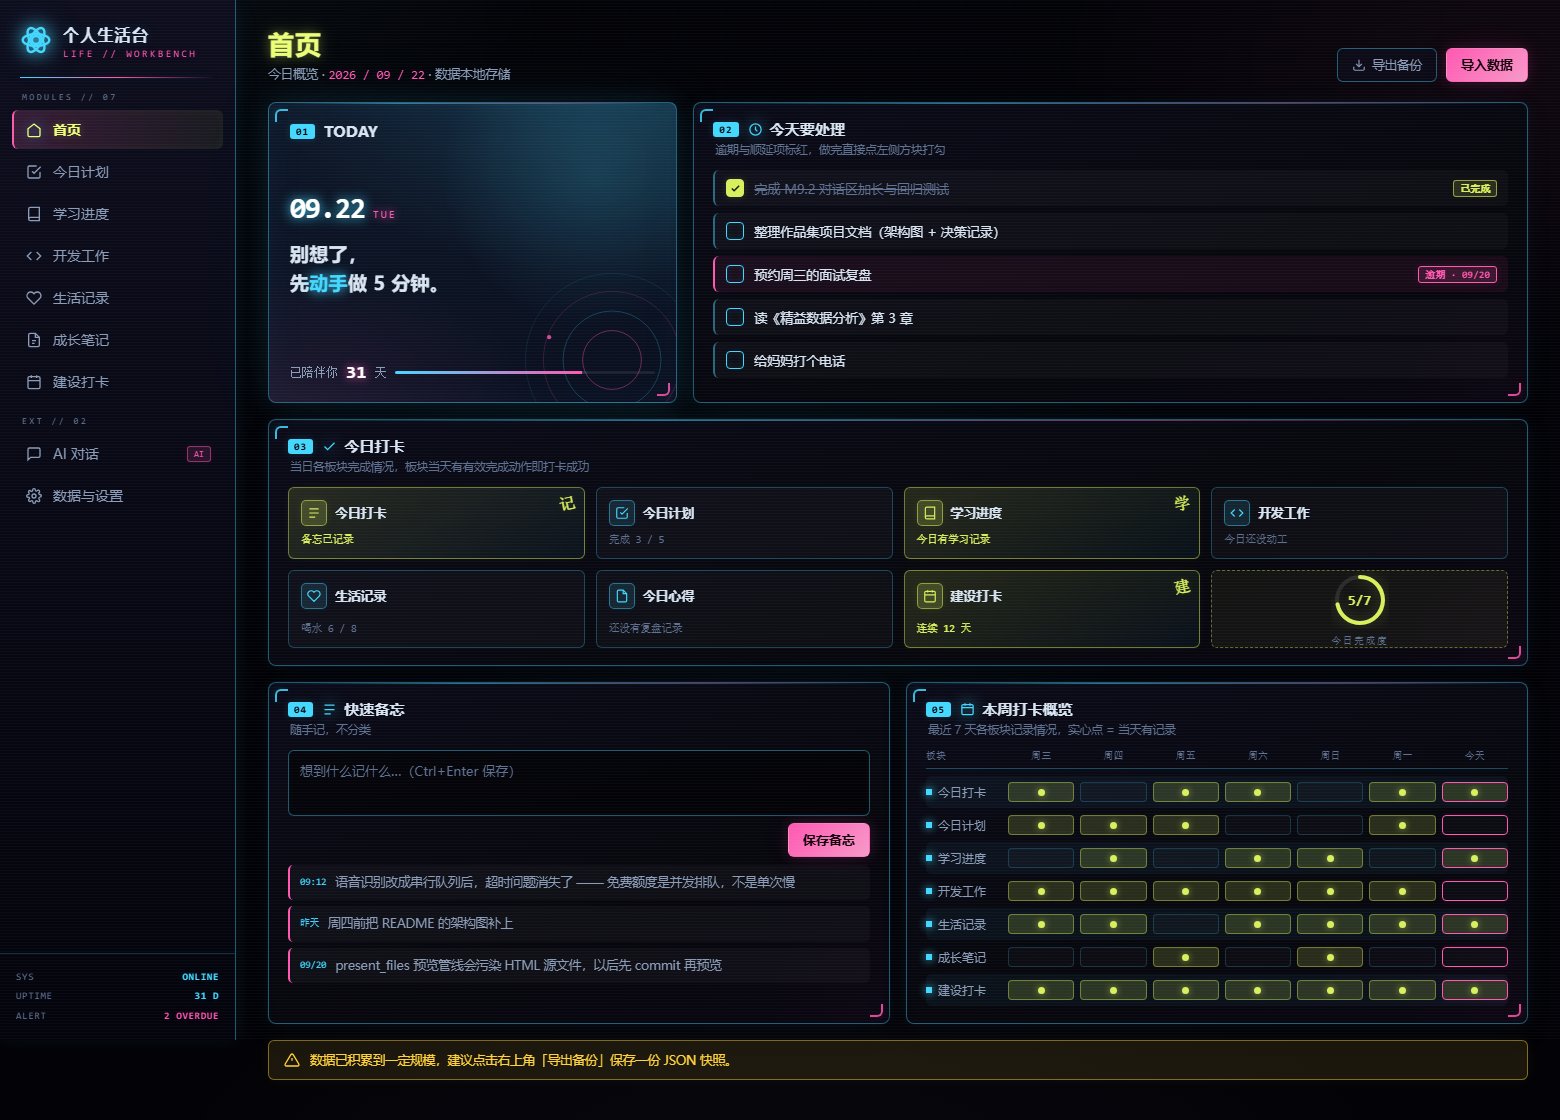
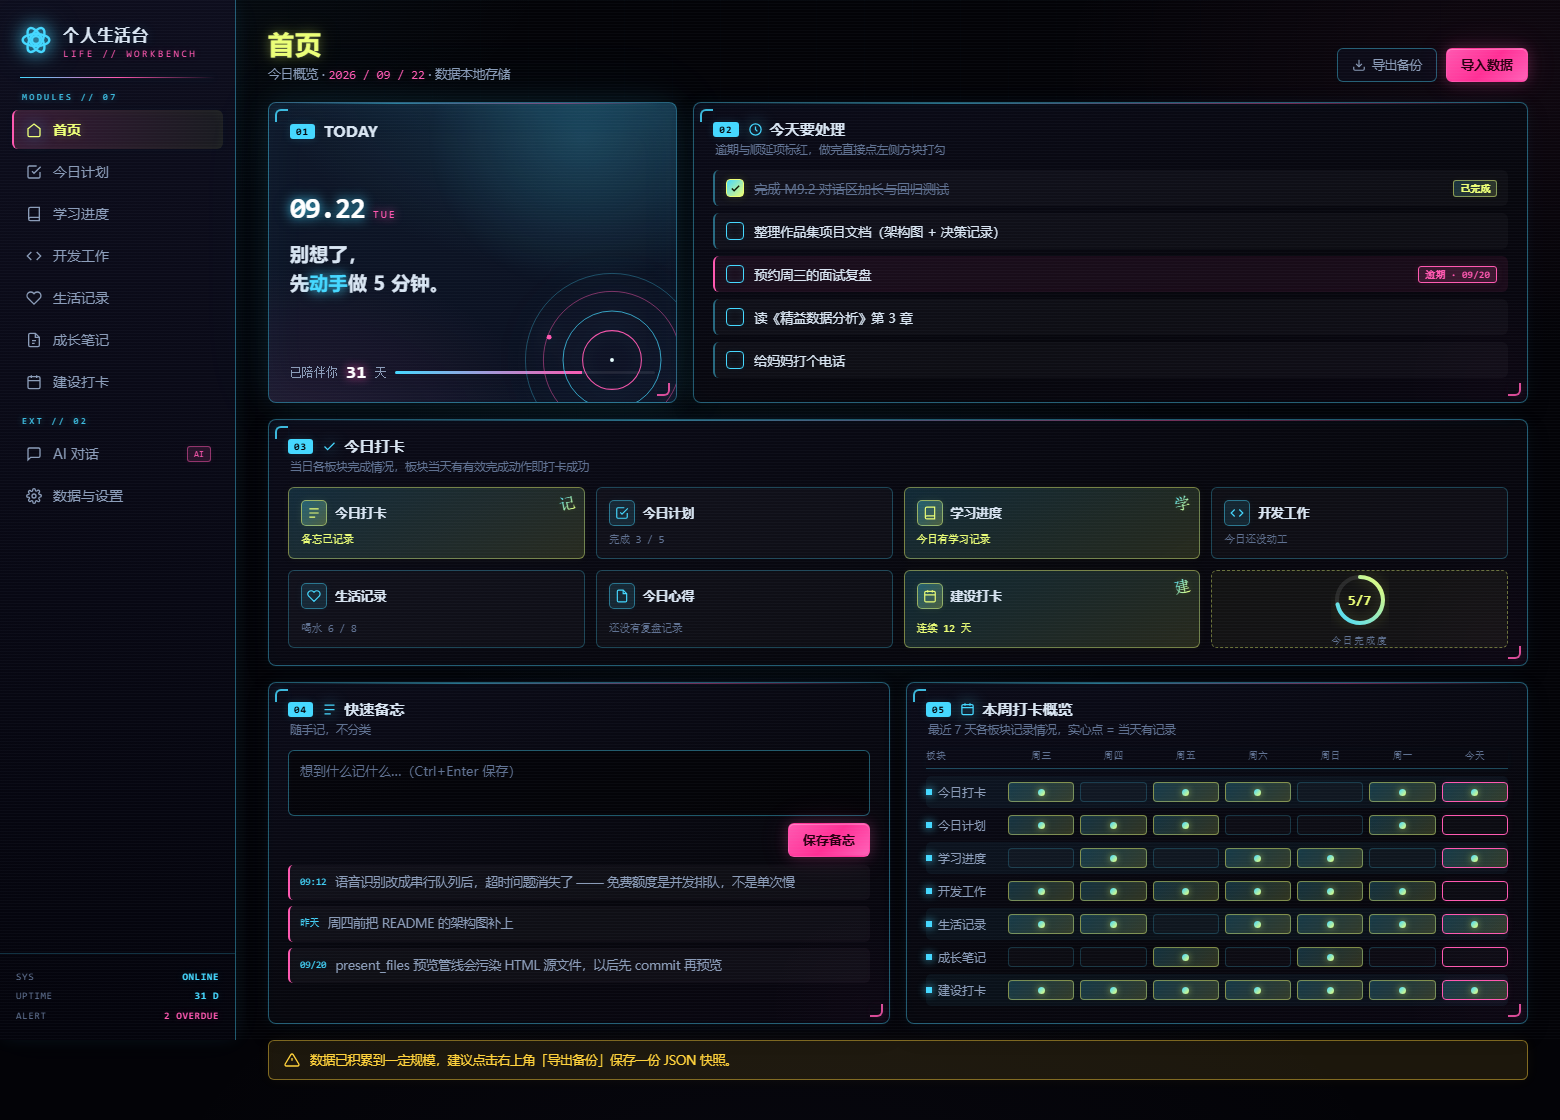
feat: B7 皮肤细节四条——按钮光感粉 / 星环凸显 / 完成态主色转荧光渐变 / 侧栏标题荧光
- 主按钮右端发白 -> 光感粉三段渐变 #ff58b0→#ff2f95→#ff62b8，加顶高光与底暗边
- 日期卡星环：描边 alpha 提亮（.16/.28/.36/.6 -> .34/.52/.74/.95）+ 双色 drop-shadow + 透明度 1 + 中心高光点，青色光团上移让位
- 打卡完成态改为「主色蓝绿 -> 荧光」渐变：对勾/卡底/图标/状态文字/印章/周记录点/完成度环(SVG linearGradient)/徽章，未打卡仍为纯主色描边以作区分
- 侧栏分组小标题改主色荧光（青 + 双层辉光）
- 实测：chroma 53.8->50.9、vivid 37.9->35.4、p95 59->61；版式体检无损
- 流程：调参脚本改空白容错匹配 + 先 git checkout 再打改动（管线异步污染会让多行 Edit 匹配失败）

diff --git a/设计稿/皮肤方案/B-赛博霓虹.html b/设计稿/皮肤方案/B-赛博霓虹.html
@@ -54,7 +54,9 @@ body::after{content:'';position:fixed;inset:0;pointer-events:none;z-index:0;opac
 .logo .s{font-size:10px;color:var(--magenta);margin-top:3px;font-family:var(--mono);
   letter-spacing:2.4px;text-shadow:0 0 9px rgba(255,88,176,0.207)}
 nav{flex:1;padding:14px 12px;overflow-y:auto}
-.nav-label{font-family:var(--mono);font-size:9px;letter-spacing:2.4px;color:var(--t3);padding:0 10px 8px}
+.nav-label{font-family:var(--mono);font-size:9px;letter-spacing:2.4px;padding:0 10px 8px;
+  color:var(--cyan);opacity:.92;
+  text-shadow:0 0 7px rgba(69,216,255,.55), 0 0 14px rgba(69,216,255,.24)}
 .nav-item{display:flex;align-items:center;gap:11px;padding:10px 12px;border-radius:var(--r-sm);
   cursor:pointer;color:var(--t2);margin-bottom:3px;font-size:14px;
   border-left:2px solid transparent;transition:.18s}
@@ -91,9 +93,9 @@ main{flex:1;min-width:0;padding:26px 30px 40px;max-width:1320px;margin:0 auto}
 .btn:hover{color:var(--cyan);border-color:var(--cyan);
   box-shadow:0 0 14px rgba(69,216,255,0.115), inset 0 0 12px rgba(69,216,255,0.032)}
 .btn svg{width:14px;height:14px}
-.btn.primary{background:linear-gradient(135deg,var(--magenta),#f79ac9);border-color:transparent;
-  color:#12000a;font-weight:800;letter-spacing:.5px;
-  box-shadow:0 0 14px rgba(255,88,176,0.15), 0 0 32px rgba(255,88,176,0.065)}
+.btn.primary{background:linear-gradient(135deg,#ff58b0 0%,#ff2f95 52%,#ff62b8 100%);border-color:transparent;
+  color:#2a0012;font-weight:800;letter-spacing:.5px;
+  box-shadow:0 0 14px rgba(255,88,176,.24), 0 0 34px rgba(255,88,176,.11), inset 0 1px 0 rgba(255,255,255,.26), inset 0 -1px 0 rgba(255,47,149,.35)}
 .btn.primary:hover{box-shadow:0 0 20px rgba(255,88,176,0.219), 0 0 48px rgba(255,88,176,0.092)}
 
 /* ---------- 栅格 ---------- */
@@ -153,7 +155,7 @@ main{flex:1;min-width:0;padding:26px 30px 40px;max-width:1320px;margin:0 auto}
     0 0 84px rgba(69,216,255,.05),
     inset 0 0 46px rgba(69,216,255,.045)}
 .date-card::after{display:none}
-.date-card .glow{position:absolute;right:-90px;top:-100px;width:340px;height:340px;border-radius:50%;
+.date-card .glow{position:absolute;right:-70px;top:-130px;width:330px;height:330px;border-radius:50%;
   background:radial-gradient(circle, rgba(69,216,255,.15), transparent 66%);z-index:1;pointer-events:none}
 .day-head{display:flex;align-items:baseline;gap:8px;position:relative}
 .day-head .d{font-family:var(--mono);font-size:29px;font-weight:800;letter-spacing:-1px;color:#fff;
@@ -170,8 +172,8 @@ main{flex:1;min-width:0;padding:26px 30px 40px;max-width:1320px;margin:0 auto}
 .day-foot .bar i{display:block;height:100%;width:72%;
   background:linear-gradient(90deg,var(--cyan),var(--magenta));
   box-shadow:0 0 9px rgba(69,216,255,1), 0 0 18px rgba(255,88,176,0.138)}
-.day-ring{position:absolute;right:-34px;bottom:-56px;width:196px;height:196px;opacity:.82;pointer-events:none;z-index:1;
-  filter:drop-shadow(0 0 8px rgba(69,216,255,0.144))}
+.day-ring{position:absolute;right:-34px;bottom:-56px;width:196px;height:196px;opacity:1;pointer-events:none;z-index:1;
+  filter:drop-shadow(0 0 9px rgba(69,216,255,.62)) drop-shadow(0 0 20px rgba(255,88,176,.28))}
 
 /* ---------- 今天要处理 ---------- */
 .focus-item{display:flex;align-items:center;gap:10px;padding:9px 11px;border-radius:var(--r-sm);
@@ -183,7 +185,8 @@ main{flex:1;min-width:0;padding:26px 30px 40px;max-width:1320px;margin:0 auto}
 .mini-check{width:18px;height:18px;border-radius:4px;border:1.5px solid var(--cyan);background:transparent;flex:none;
   display:grid;place-items:center;cursor:pointer;color:transparent;
   box-shadow:inset 0 0 8px rgba(69,216,255,0.092), 0 0 8px rgba(69,216,255,0.042)}
-.mini-check.checked{background:var(--gold);border-color:var(--gold);color:#111600;
+.mini-check.checked{background:linear-gradient(135deg,var(--cyan),var(--gold-hi));
+  border-color:var(--gold-hi);color:#0d1400;
   box-shadow:0 0 8.0px rgba(217,240,94, 0.124), 0 0 16.0px rgba(217,240,94, 0.049)}
 .mini-check svg{width:11px;height:11px}
 .fi-text{flex:1;font-size:13px;min-width:0;overflow:hidden;text-overflow:ellipsis;white-space:nowrap}
@@ -191,7 +194,8 @@ main{flex:1;min-width:0;padding:26px 30px 40px;max-width:1320px;margin:0 auto}
 .badge{font-family:var(--mono);font-size:9.5px;padding:2px 6px;flex:none;letter-spacing:.4px;font-weight:700;border-radius:3px}
 .badge.red{background:rgba(255,88,176,.15);color:var(--magenta);border:1px solid var(--magenta);
   box-shadow:0 0 9px rgba(255,88,176,0.104)}
-.badge.gold{background:rgba(217,240,94,.14);color:var(--gold);border:1px solid rgba(217,240,94,.6);
+.badge.gold{background:linear-gradient(135deg,rgba(69,216,255,.18),rgba(236,255,119,.16));
+  color:var(--gold-hi);border:1px solid rgba(236,255,119,.5);
   box-shadow:0 0 7.2px rgba(217,240,94, 0.049)}
 
 /* ---------- 今日打卡 ---------- */
@@ -202,20 +206,23 @@ main{flex:1;min-width:0;padding:26px 30px 40px;max-width:1320px;margin:0 auto}
   box-shadow:inset 0 0 10px rgba(69,216,255,0.011)}
 .ck-card:hover{border-color:var(--cyan);
   box-shadow:0 0 12px rgba(69,216,255,0.081), inset 0 0 14px rgba(69,216,255,0.028)}
-.ck-card.done{border-color:rgba(217,240,94,.46);
-  background:linear-gradient(150deg,rgba(217,240,94,.14),rgba(69,216,255,.05));
+.ck-card.done{border-color:rgba(236,255,119,.42);
+  background:linear-gradient(150deg,rgba(69,216,255,.16),rgba(236,255,119,.14));
   box-shadow:0 0 11.2px rgba(217,240,94, 0.039), inset 0 0 12.8px rgba(217,240,94, 0.014)}
 .ck-top{display:flex;align-items:center;gap:8px}
 .ck-ic{width:26px;height:26px;border-radius:5px;display:grid;place-items:center;flex:none;
   background:rgba(69,216,255,.12);border:1px solid rgba(69,216,255,.45);color:var(--cyan);
   box-shadow:0 0 9px rgba(69,216,255,0.05)}
 .ck-ic svg{width:14px;height:14px}
-.ck-card.done .ck-ic{background:rgba(217,240,94,.18);border-color:rgba(217,240,94,.52);color:var(--gold);
+.ck-card.done .ck-ic{background:linear-gradient(135deg,rgba(69,216,255,.30),rgba(236,255,119,.24));
+  border-color:rgba(236,255,119,.52);color:var(--gold-hi);
   box-shadow:0 0 8.0px rgba(217,240,94, 0.076), inset 0 0 7.2px rgba(217,240,94, 0.028)}
 .ck-name{font-size:12.5px;font-weight:700;letter-spacing:.3px}
 .ck-st{font-size:10.5px;color:var(--t3);font-family:var(--mono);margin-top:auto}
-.ck-card.done .ck-st{color:var(--gold);text-shadow:0 0 6.4px rgba(217,240,94, 0.069)}
-.ck-stamp{position:absolute;right:8px;top:6px;font-size:16px;font-weight:800;color:var(--gold);
+.ck-card.done .ck-st{color:var(--gold-hi);text-shadow:0 0 6.4px rgba(217,240,94, 0.069)}
+.ck-stamp{position:absolute;right:8px;top:6px;font-size:16px;font-weight:800;
+  background:linear-gradient(135deg,var(--cyan) 10%,var(--gold-hi) 90%);
+  -webkit-background-clip:text;background-clip:text;color:transparent;
   transform:rotate(-12deg);font-family:var(--mono);
   text-shadow:0 0 7.2px rgba(217,240,94, 0.158), 0 0 13.6px rgba(217,240,94, 0.055)}
 .ck-card.locked{opacity:.45}
@@ -224,12 +231,12 @@ main{flex:1;min-width:0;padding:26px 30px 40px;max-width:1320px;margin:0 auto}
   border:1px solid rgba(255,88,176,.5)}
 .ck-sum{display:flex;flex-direction:column;align-items:center;justify-content:center;gap:6px;
   border-radius:var(--r-sm);position:relative;
-  border:1px dashed rgba(217,240,94,.40);background:rgba(217,240,94,.06);
+  border:1px dashed rgba(236,255,119,.40);background:rgba(236,255,119,.05);
   box-shadow:inset 0 0 9.6px rgba(217,240,94, 0.011)}
 .ck-sum .ring{width:58px;height:58px;position:relative}
 .ck-sum .ring svg{width:58px;height:58px;transform:rotate(-90deg)}
 .ck-sum .ring .val{position:absolute;inset:0;display:grid;place-items:center;
-  font-family:var(--mono);font-size:14px;font-weight:800;color:var(--gold);
+  font-family:var(--mono);font-size:14px;font-weight:800;color:var(--gold-hi);
   text-shadow:0 0 7.2px rgba(217,240,94, 0.124)}
 .ck-sum .lb{font-family:var(--mono);font-size:10px;color:var(--t3);letter-spacing:1.4px}
 
@@ -262,9 +269,11 @@ main{flex:1;min-width:0;padding:26px 30px 40px;max-width:1320px;margin:0 auto}
 .wk-name i{width:6px;height:6px;background:var(--cyan);flex:none;box-shadow:0 0 8px var(--cyan)}
 .wk-dot{width:100%;height:20px;border-radius:4px;display:grid;place-items:center;
   border:1px solid rgba(69,216,255,.2);background:rgba(255,255,255,.025)}
-.wk-dot.on{background:rgba(217,240,94,.16);border-color:rgba(217,240,94,.40);
+.wk-dot.on{background:linear-gradient(135deg,rgba(69,216,255,.20),rgba(236,255,119,.18));
+  border-color:rgba(236,255,119,.44);
   box-shadow:inset 0 0 7.2px rgba(217,240,94, 0.028), 0 0 6.4px rgba(217,240,94, 0.022)}
-.wk-dot.on::after{content:'';width:7px;height:7px;border-radius:50%;background:var(--gold);
+.wk-dot.on::after{content:'';width:7px;height:7px;border-radius:50%;
+  background:linear-gradient(135deg,var(--cyan),var(--gold-hi));
   box-shadow:0 0 7.2px rgba(217,240,94, 0.600)}
 .wk-dot.today{border-color:var(--magenta);box-shadow:0 0 9px rgba(255,88,176,0.069)}
 
@@ -327,11 +336,12 @@ main{flex:1;min-width:0;padding:26px 30px 40px;max-width:1320px;margin:0 auto}
         </div>
         <div class="day-foot"><span>已陪伴你</span><b>31</b><span>天</span><span class="bar"><i></i></span></div>
         <svg class="day-ring" viewBox="0 0 240 240" aria-hidden="true">
-          <circle cx="120" cy="120" r="106" fill="none" stroke="rgba(69,216,255,.16)" stroke-width="1"/>
-          <circle cx="120" cy="120" r="84" fill="none" stroke="rgba(255,88,176,.28)" stroke-width="1"/>
-          <circle cx="120" cy="120" r="60" fill="none" stroke="rgba(69,216,255,.36)" stroke-width="1"/>
-          <circle cx="120" cy="120" r="36" fill="none" stroke="rgba(255,88,176,.6)" stroke-width="1"/>
-          <circle cx="219" cy="156" r="4" fill="#45d8ff"/><circle cx="43" cy="92" r="2.6" fill="#ff58b0"/>
+          <circle cx="120" cy="120" r="106" fill="none" stroke="rgba(69,216,255,.34)" stroke-width="1.1"/>
+          <circle cx="120" cy="120" r="84" fill="none" stroke="rgba(255,88,176,.52)" stroke-width="1.1"/>
+          <circle cx="120" cy="120" r="60" fill="none" stroke="rgba(69,216,255,.74)" stroke-width="1.2"/>
+          <circle cx="120" cy="120" r="36" fill="none" stroke="rgba(255,88,176,.95)" stroke-width="1.3"/>
+          <circle cx="219" cy="156" r="4.6" fill="#45d8ff"/><circle cx="43" cy="92" r="3" fill="#ff58b0"/>
+          <circle cx="120" cy="120" r="2.4" fill="#eaffff"/>
         </svg>
       </div>
 
@@ -367,7 +377,8 @@ main{flex:1;min-width:0;padding:26px 30px 40px;max-width:1320px;margin:0 auto}
           <div class="ck-card"><div class="ck-top"><div class="ck-ic"><svg viewBox="0 0 24 24" fill="none" stroke="currentColor" stroke-width="2"><path d="M14 2H6a2 2 0 0 0-2 2v16a2 2 0 0 0 2 2h12a2 2 0 0 0 2-2V8z"/><path d="M14 2v6h6"/></svg></div><div class="ck-name">今日心得</div></div><div class="ck-st">还没有复盘记录</div></div>
           <div class="ck-card done"><div class="ck-top"><div class="ck-ic"><svg viewBox="0 0 24 24" fill="none" stroke="currentColor" stroke-width="2"><rect x="3" y="4" width="18" height="18" rx="2"/><path d="M16 2v4M8 2v4M3 10h18"/></svg></div><div class="ck-name">建设打卡</div></div><div class="ck-st">连续 12 天</div><div class="ck-stamp">建</div></div>
           <div class="ck-sum">
-            <div class="ring"><svg viewBox="0 0 58 58"><circle cx="29" cy="29" r="23" fill="none" stroke="rgba(255,255,255,.1)" stroke-width="4"/><circle cx="29" cy="29" r="23" fill="none" stroke="#d9f05e" stroke-width="4" stroke-linecap="round" stroke-dasharray="144.5" stroke-dashoffset="41.3" style="filter:drop-shadow(0 0 7px rgba(217,240,94,0.274))"/></svg><div class="val">5/7</div></div>
+            <div class="ring"><svg viewBox="0 0 58 58"><defs><linearGradient id="ckGrad" x1="0" y1="0" x2="1" y2="1">
+  <stop offset="0" stop-color="#45d8ff"/><stop offset="1" stop-color="#ecff77"/></linearGradient></defs><circle cx="29" cy="29" r="23" fill="none" stroke="rgba(255,255,255,.1)" stroke-width="4"/><circle cx="29" cy="29" r="23" fill="none" stroke="url(#ckGrad)" stroke-width="4" stroke-linecap="round" stroke-dasharray="144.5" stroke-dashoffset="41.3" style="filter:drop-shadow(0 0 7px rgba(217,240,94,0.274))"/></svg><div class="val">5/7</div></div>
             <div class="lb">今日完成度</div>
           </div>
         </div>

diff --git a/docs/03-版本记录.md b/docs/03-版本记录.md
@@ -41,6 +41,15 @@
   完成态 → **荧光黄带草绿 `#e6ff4a`**（色相 68°，绿分量略高于红，落在柠檬黄与草绿之间）。
   实测：光晕能量 9.04 → **7.60**（相对最初 12.96 累计 -41%），亮部彩度 chroma 72.9 → **59.8**（-18%），
   但亮部峰值 p95 仍保 60 —— 暗下来而高光不丢
+- **B7（四条细节反馈）**：
+  ① 主按钮渐变右端发白（`#f79ac9`）→ **光感粉** `#ff58b0 → #ff2f95 → #ff62b8` 三段，加顶部高光/底部暗边做立体感
+  ② 日期卡星环被光团淹没 → 四道描边 alpha 提亮（.16/.28/.36/.6 → .34/.52/.74/.95）、加双色 drop-shadow、
+     透明度 .82→1、青色光团上移让位、中心加一颗高光点
+  ③ **打卡完成态改为「主色蓝绿 → 荧光」渐变**（原来是纯荧光块，与主色冲撞）：对勾 / 完成卡底 / 图标 /
+     状态文字 / 印章「记」/ 本周记录点 / 完成度环（SVG `linearGradient #ckGrad`）/ 已完成徽章全部走渐变，
+     未打卡态仍是纯主色描边，两者可区分
+  ④ 侧栏分组小标题（`MODULES // 07`）改主色荧光（青 + 双层辉光），不再是灰字
+  实测：亮部彩度 53.8→50.9、艳色占比 37.9→35.4（完成态冲撞感下降），p95 59→61（星环高光回来）；版式无损
 - 度量补充：`png-luma.js` 增加 satBright / vivid% / chromaBright 三个「艳度」指标（只统计 luma>40 的像素，
   否则暗底会把饱和度平均拉飞，出现「A 版看着克制但指标更高」的反直觉结果）
 - **B6（粉青对撞 · 日期卡发光）**：主题青更冷更亮 `#22d3ee` → `#45d8ff`（色相 187→194°，L 53→62%）；
